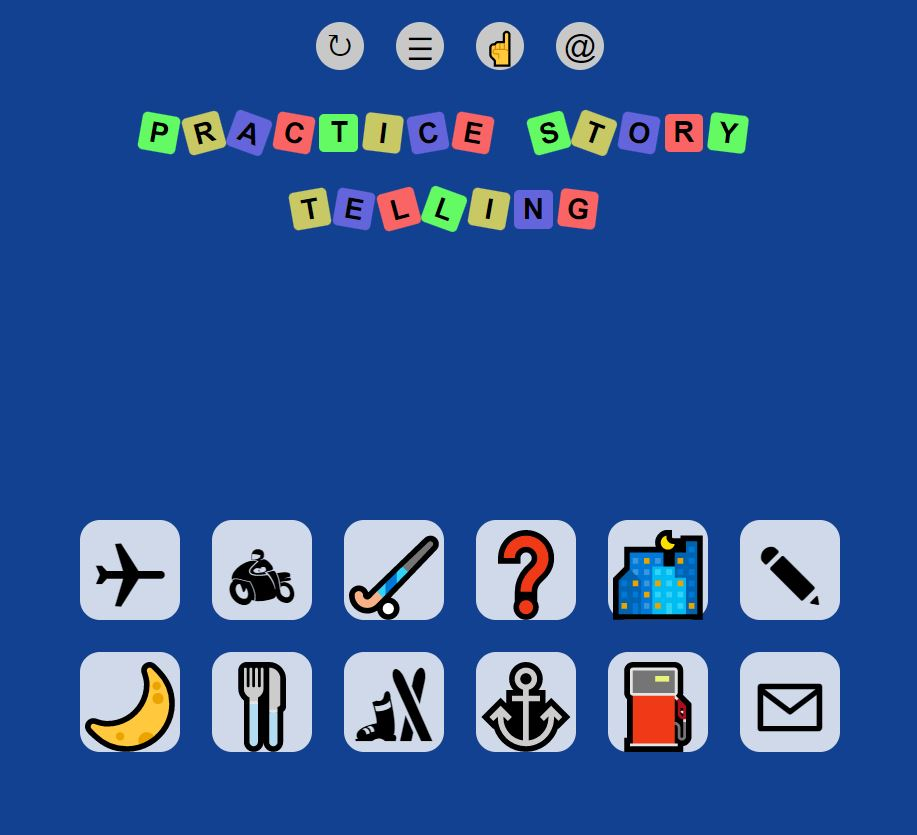
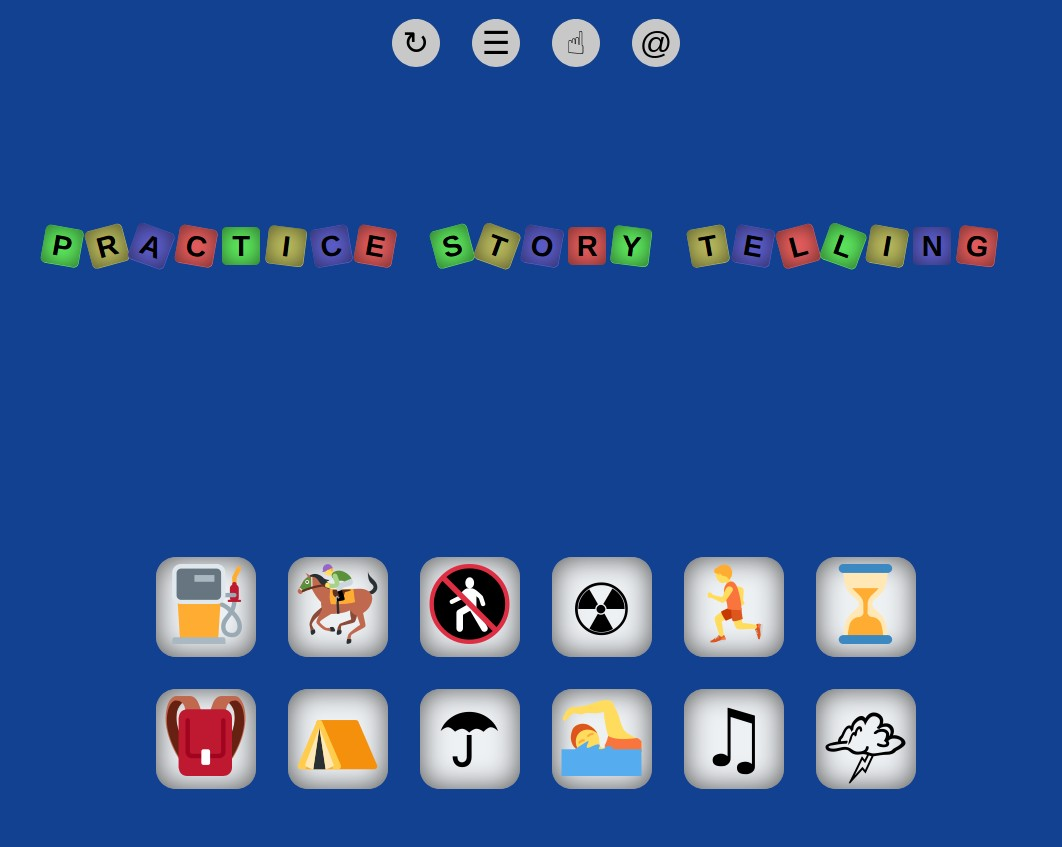
content corrected and images added to story dices, image group max height added

diff --git a/src/app/services/content/get-story-dices-content.service.ts b/src/app/services/content/get-story-dices-content.service.ts
@@ -16,21 +16,41 @@ export class GetStoryDicesContentService {
           {
             type: 'p',
             content: `
-              For one of online gatherings of Toastmasters, I prepared a electronic version of story telling game, 
+              For one of online gatherings of Toastmasters I prepared a electronic version of story telling game, 
               where user throws dices, and tells a story related to drawn images.
-              In this game it is guaranteed that images will not repete. User may redraw an image that is 
+              In this application it is guaranteed that images will not repete. User may redraw an image that is 
               not comfortable by clicking a specific cube, or redraw all images with rewind button. After 
-              clicking a burger button user may select topics player feels comfortable with, or number of cubes 
+              clicking a burger button user may select topics, or number of cubes 
               that will be displayed. There is a menu for reminding Toastmasters Table Topic rules, and 
               informing that a story should have a structure. 
             `
           },
           {
+            type:'image',
+            imageName:'storyDices1.JPG',
+            imageAlt: 'story dices: '
+          },
+          {
             type: 'p',
             content: `
-              This application is designed to look good on all types of devices. Especially mobile devices are importan, 
-              as someone may want to practic story telling having only a smartphone.
+              This application is designed to look good on all types of devices. Especially mobils are important, 
+              as someone may want to practice somewhere far from a computer.
             `
+          },
+          {
+            type:'images-in-a-row',
+            maxHeight: '430px',
+            imageList:[
+              {
+                imageName:'StoryDices4.JPG',
+                imageAlt: 'story dices: '
+              },
+              {
+                imageName:'StoryDices5.JPG',
+                imageAlt: 'story dices: '
+              },
+
+            ]
           },
           {
             type: 'p',
@@ -39,9 +59,25 @@ export class GetStoryDicesContentService {
               For styling pure CSS, and HTML for loading pages.
               Application uses custom web elements for encapsulation an reusebility. 
             `
-          }
+          },
         ]
-      }
+      },
+      {
+        type: 'section',
+        title: 'References',
+        content: [
+          {
+            type: 'link',
+            title: 'Github project link.',
+            href: 'https://github.com/gudmar/storyDices',
+          },
+          {
+            type: 'link',
+            title: 'Try it out',
+            href: 'https://gudmar.github.io/storyDices/',
+          },
+        ]
+      },
     ]
   }
 }

diff --git a/src/app/components/content-section/document-section/document-section.component.html b/src/app/components/content-section/document-section/document-section.component.html
@@ -27,10 +27,13 @@
 
     <image-component *ngIf="item.type=='image'" 
         [imageName]="item.imageName"
-        [imageAlt]="item.imageAlt">
+        [imageAlt]="item.imageAlt"
+        [maxHeight] = "item.maxHeight!=undefined?item.maxHeight:''"
+    >
     </image-component>
     <images-in-a-row *ngIf="item.type=='images-in-a-row'"
         [imageList]="item.imageList"
+        [maxHeight]="item.maxHeight!=undefined?item.maxHeight:''"
     >
     </images-in-a-row>
 

diff --git a/src/app/components/content-section/document-section/image-component/image-component.component.ts b/src/app/components/content-section/document-section/image-component/image-component.component.ts
@@ -9,6 +9,7 @@ import { ImagePathGettingService } from '../../../../services/image-path-getting
 export class ImageComponentComponent implements OnInit {
   @Input() imageName: string = '';
   @Input() imageAlt: string = '';
+  @Input() maxHeight: string = '';
   constructor(
     private imagePathGetter: ImagePathGettingService
   ) { }

diff --git a/src/app/components/content-section/document-section/image-component/image-component.component.html b/src/app/components/content-section/document-section/image-component/image-component.component.html
@@ -1,3 +1,6 @@
 <div *ngIf="isImageReady()" class="document-image-wrapper center">
-    <img [src]="getImagePath(imageName)" [alt]="imageAlt">
+    <img [src]="getImagePath(imageName)" 
+         [alt]="imageAlt"
+         [style.max-height] = "maxHeight"
+    >
 </div>

diff --git a/src/app/components/content-section/document-section/images-in-a-row/images-in-a-row.component.ts b/src/app/components/content-section/document-section/images-in-a-row/images-in-a-row.component.ts
@@ -7,6 +7,7 @@ import { Component, OnInit, Input } from '@angular/core';
 })
 export class ImagesInARowComponent implements OnInit {
   @Input() imageList:any;
+  @Input() maxHeight:string='';
   constructor() { }
 
   ngOnInit(): void {

diff --git a/src/app/components/content-section/document-section/images-in-a-row/images-in-a-row.component.html b/src/app/components/content-section/document-section/images-in-a-row/images-in-a-row.component.html
@@ -2,6 +2,7 @@
     <image-component *ngFor="let image of imageList"
         [imageName]="image.imageName"
         [imageAlt] ="image.imageAlt"
+        [maxHeight] = "maxHeight"
     >
     </image-component>
 </div>

diff --git a/src/app/components/content-section/document-section/image-component/image-component.component.scss b/src/app/components/content-section/document-section/image-component/image-component.component.scss
@@ -1,7 +1,9 @@
 img{
-    max-width: 100%;
+    max-width: 400px;
+    width: 100%;
+    object-fit: scale-down;
 }
 
 .photos-in-row, .document-image-wrapper{
-    max-width: 100%;
+    // max-width: scale-down;
 }
